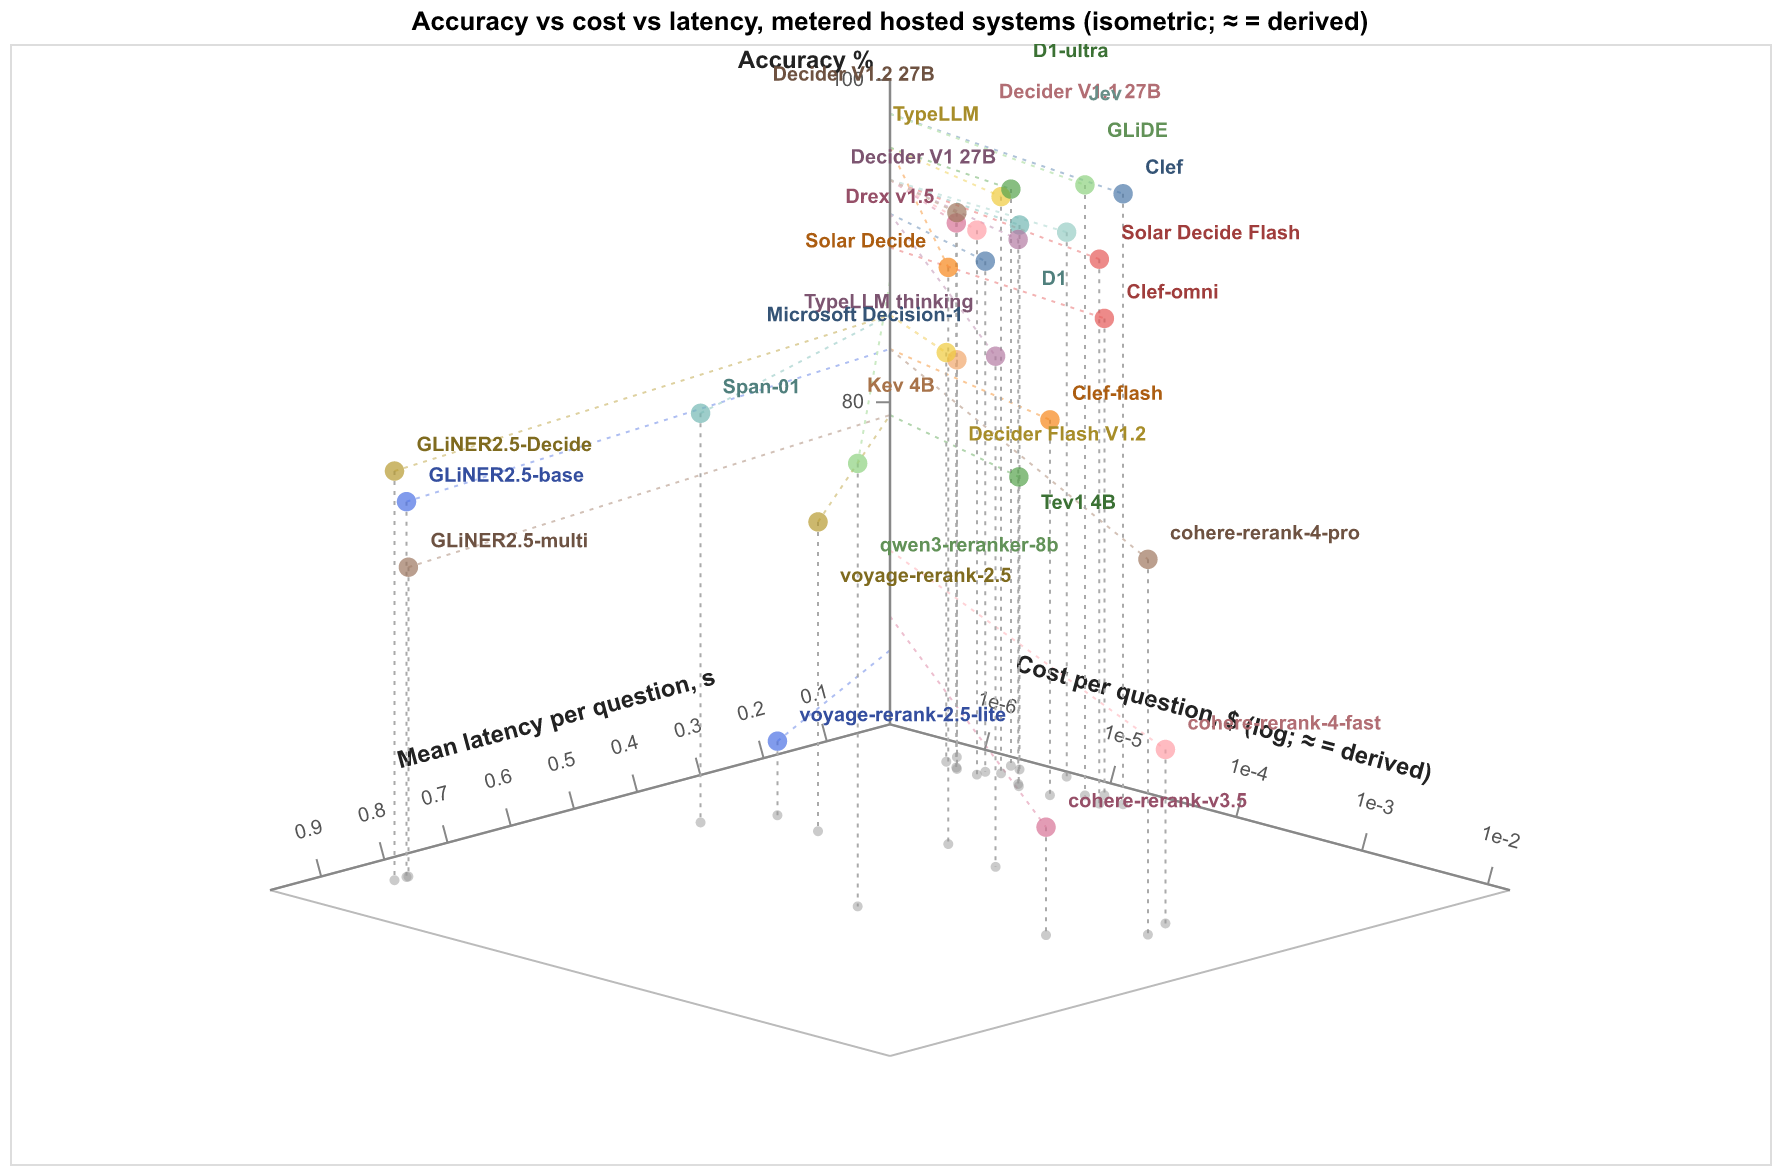
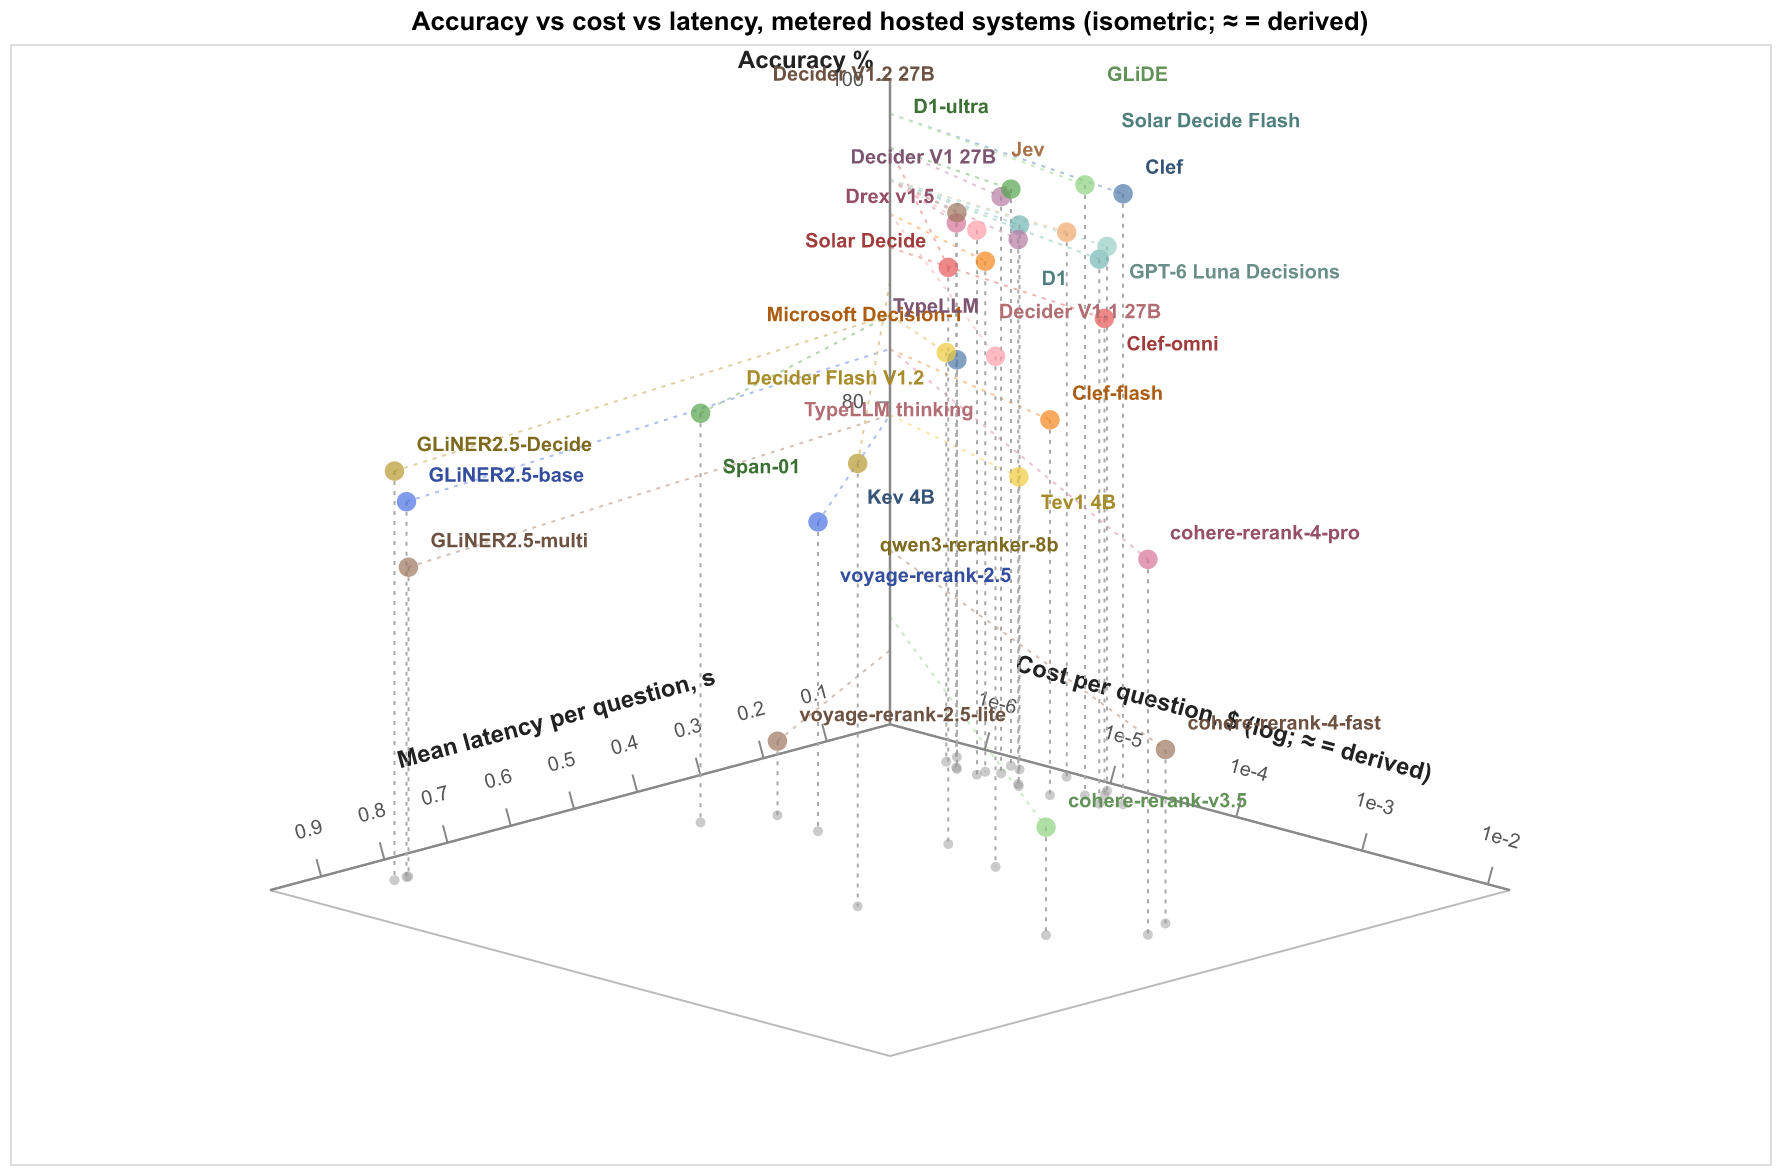
docs(readme,trials): record the luna-decisions unlock - 93.8 percent mixed pool, 54/54 multilingual
Benched 2026-10-24 after the account OpenAI-group ZDR toggle was lifted by user direction; the formerly-blocked table entry is retired and the arrival bullet rewritten. Charts regenerated.

diff --git a/README.md b/README.md
@@ -1,7 +1,7 @@
 # zero-shot-ie-bench
 
-Eighty zero-shot systems (seventy-seven of them benchmarked) across
-thirty-seven information-extraction and classification families —
+Eighty-one zero-shot systems (seventy-eight of them benchmarked) across
+thirty-eight information-extraction and classification families —
 extractor encoders, a purpose-built classifier, cross-encoder rerankers,
 and typed-decision engines (local and cloud, the hosted ones behind
 OpenRouter's decision and rerank endpoints plus Fastino's API, plus ten
@@ -57,6 +57,7 @@ Just here for the results? **[Skip to the benchmark charts](#benchmark-charts)**
 | [Drex v1.5](https://openrouter.ai/nace-ai/drex-v1.5) (`nace-ai/drex-v1.5`) | cloud decision model (Nace.AI's MiMo-V2.6-Distill-Qwen-9B on the System One contract; the card claims Decision Index 0.2.1 rank 1; open weights plus an Apache-2.0 runtime adapted from Kev — the local fp32 twin needs ~36 GB and GGUF serving waits on Nace's llama.cpp/Ollaya fork, so it is benched hosted) | 9B | Nace.AI Open RAIL-M weights · Apache 2.0 runtime | metered · $1.4e-6/q |
 | [d1](https://openrouter.ai/liquid/d1) / [d1-ultra](https://openrouter.ai/liquid/d1-ultra) (`liquid/d1*`) | cloud decision model (Liquid AI's structured decisions on the System One contract: choice/score/noul with calibrated probabilities; d1-ultra is the larger 2026-10-15 step-up, 32k context) | undisclosed | proprietary API | metered · $2.7e-6 (d1) / $2.2e-6 (ultra) /q † |
 | [Elephant-1 9B](https://openrouter.ai/baseten/elephant-1) (`baseten/elephant-1:free`) | cloud decision model (Base Labs' Qwen3.5-9B decision model served by Baseten on the System One contract — choice/noul/score with calibrated probabilities; the plain slug carries no endpoint, all traffic rides the free variant; MIT weights on HF `baselabs/elephant-1`) | 9B | free API tier · MIT weights on HF | $0 · free tier † |
+| [GPT-6 Luna Decisions](https://openrouter.ai/openai/gpt-6-luna-decisions) (`openai/gpt-6-luna-decisions`) | cloud decision model (GPT-6 Luna behind OpenAI's Decisions API on the System One contract — typed choice/noul/score with probabilities, input-only billing, 1.05M context; the endpoint retains prompts, and it was benched 2026-10-24 only after the account's OpenAI-group ZDR toggle was lifted by user direction) | undisclosed | proprietary API | metered · $1.3e-5/q † |
 | [Tev1 4B](https://openrouter.ai/togethercomputer/tev1-4b-experimental) (`togethercomputer/tev1-4b-experimental`) | cloud decision model (experimental Qwen3.5-4B SFT choosing one of 2–24 labeled options; keeps Qwen's next-token head, and OpenRouter serves it on the systemone schema anyway; the data recipe and training code are published) | 4B | proprietary API · open recipe | metered · $4.8e-6/q |
 | [Mercury Decide](https://openrouter.ai/inception/mercury-decide:free) (`inception/mercury-decide:free`) | cloud decision model (Inception's diffusion LM making typed decisions with calibrated probabilities, up to 14 decisions/s; same /v1/systemone schema as Jev) | undisclosed | proprietary API | free tier † |
 | [Qwen3-Reranker 8B](https://openrouter.ai/qwen/qwen3-reranker-8b) · [Voyage rerank-2.5](https://openrouter.ai/voyageai/rerank-2.5) (+lite) · [Cohere Rerank](https://openrouter.ai/cohere/rerank-4-pro) (4 Pro / 4 Fast / v3.5), all via OpenRouter | cloud rerankers (same (instruction, label) argmax mapping as the local ones) | 8B / closed / closed | proprietary API | metered · $1.4e-6–$2.5e-3/q |
@@ -199,6 +200,7 @@ exact span-set match (18 questions). † = hosted via OpenRouter (non-ZDR):
 | TypeLLM (hosted) † | 95.8% | 0.057 | n/a | |
 | Solar Decide (OpenRouter) † | 95.8% | 0.308 | n/a | |
 | Jev (cloud, jev-1.14.0) | 93.8% | 0.015 | n/a | |
+| GPT-6 Luna Decisions (OpenRouter) † | 93.8% | 0.025 | n/a | |
 | D1 (OpenRouter) † | 93.8% | 0.031 | n/a | |
 | Decider V1.2 27B (OpenRouter) | 93.8% | 0.044 | n/a | |
 | Solar Decide Flash (OpenRouter) † | 93.8% | 0.069 | n/a | |
@@ -276,19 +278,22 @@ exact span-set match (18 questions). † = hosted via OpenRouter (non-ZDR):
 
 Takeaways:
 
-- **Elephant-1 lands on the free tier; luna-decisions stays gated by
-  the account's ZDR.** Baseten/Base Labs' 9B (Qwen3.5-9B, System One
+- **Elephant-1 lands on the free tier; luna-decisions unlocked and
+  joins the 93.8% tier.** Baseten/Base Labs' 9B (Qwen3.5-9B, System One
   contract) arrives at 89.6% (43/48, 0.018 s/q — Mercury Decide's tier
   at a third of its latency) with a perfect 54/54 multilingual run,
   both measured at $0: the plain `baseten/elephant-1` slug answers no
   endpoints, all traffic rides `:free` (whose 20-req/min limit paced
   the multilingual run to 2.97 s/text). The free endpoint documents no
   retention policy, so the row carries the †. OpenAI's
-  `gpt-6-luna-decisions` (1.05M ctx, $0.10/M) remains
-  listed-but-unbenched: the 2026-10-24 live probe still returns "ZDR
-  violation (account settings)" — flipping the OpenRouter privacy
-  setting would unlock it. SubQ Snap 1.1 (NanoGPT), Celeris-1 (own
-  API) and Cloudflare's Clairic (Workers AI) are not on OpenRouter.
+  `gpt-6-luna-decisions` (1.05M ctx, $0.10/M input-only) joined the
+  same day once the account's OpenAI-group ZDR toggle was lifted by
+  user direction: 93.8% (45/48, 0.025 s/q — the Jev/Decider tier) and
+  54/54 multilingual at 0.547 s/text, $0.0014 measured for both runs;
+  its easy calls return degenerate probabilities (1.0/0.0, confidence
+  1.0) — calibration-table fodder — and the retaining endpoint puts
+  the † on the row. SubQ Snap 1.1 (NanoGPT), Celeris-1 (own API) and
+  Cloudflare's Clairic (Workers AI) are not on OpenRouter.
 - **The OpenRouter Oct-16 arrivals: d1-ultra joins the hosted pool
   lead, and the 12-question gate takes its second same-day overturn** —
   the gate had scored these 9–10/12 (both misses mixed-sentiment), but
@@ -337,9 +342,10 @@ Takeaways:
   79.2% locals. Decider V1.1 is the value pick: same 5,273 input
   tokens as V1 at half the list price ($0.02 vs $0.04/M — $2.2e-6/q,
   the cheapest of the paid Decisions arrivals).
-  All five join the 100% multilingual club on arrival (below);
-  gpt-6-luna-decisions sits this one out (OpenAI's endpoint retains
-  prompts, blocked by the account's ZDR enforcement — noted below).
+  All five join the 100% multilingual club on arrival (below), as do
+  Elephant-1 and gpt-6-luna-decisions (benched 2026-10-24 after the
+  account's OpenAI-group ZDR toggle was lifted by user direction —
+  OpenAI's endpoint retains prompts, so its rows carry the †).
 - **TypeLLM's October retune flips the thinking story: plain now beats
   thinking, 95.8% vs 91.7%** — the type-safe generation harness
   (constrained enum answers over a hosted Qwen3.8-27B) was re-benched
@@ -536,6 +542,7 @@ TypeLLM adds $0.50 per M thinking tokens) × measured tokens:
 | Jev (cloud) ‡ | $0.00026 | $0.00027 | $0.0000053 |
 | Clef-flash (Workers AI) | $0.00041 | $0.00078 | $0.0000086 |
 | GLiDE (Fastino) | $0.00057 | $0.00071 | $0.0000120 |
+| GPT-6 Luna Decisions (OpenRouter) † | $0.000602 | $0.000759 | $0.0000125 |
 | Clef-omni (Workers AI) | $0.00068 | $0.0013 | $0.000014 |
 | Solar Decide (OpenRouter) † | $0.00087 | $0.0010 | $0.0000181 |
 | Solar Decide Flash (OpenRouter) † | $0.00087 | $0.0010 | $0.0000181 |
@@ -640,6 +647,7 @@ systems answer the same 54 texts.
 | Decider V1.2 27B (OpenRouter) | 100% | 100% | 100% | **100%** |
 | D1-ultra (OpenRouter) † | 100% | 100% | 100% | **100%** |
 | Elephant-1 9B (OpenRouter) † | 100% | 100% | 100% | **100%** |
+| GPT-6 Luna Decisions (OpenRouter) † | 100% | 100% | 100% | **100%** |
 | winnow e4b (Ollaya) | 100% | 100% | 94% | 98% |
 | Span-01 † | 100% | 100% | 94% | 98% |
 | Kev 4B (OpenRouter) † | 100% | 100% | 94% | 98% |
@@ -1317,11 +1325,9 @@ Blocked by hardware or runtime:
 | `fastino/gliner2-{base,large,multi}-v1` | older span-architecture GLiNER 2 line, different loader |
 | `gliner-community/gliner_*-v2.5` | classic `gliner` line (LUKE-descended); a one-off CPU trial of `gliner_large-v2.5` scored 56.2% classification / 67% NER at ~0.4 s/question — dominated by GLiNER2.5-base, so not added |
 
-Blocked by the account's data policy:
-
-| System | Why not run here |
-|---|---|
-| `openai/gpt-6-luna-decisions` | GPT-6 Luna behind OpenAI's Decisions API entry on OpenRouter ($0.10/M input, decisions free, 1.05M context) — its only endpoint reports `retainsPrompts: true`, and this account enforces ZDR, so OpenRouter refuses to route to it; running it would mean weakening the account's privacy settings |
+Formerly blocked by the account's data policy: `openai/gpt-6-luna-decisions`
+(retains prompts) — benched 2026-10-24 after the account's OpenAI-group
+ZDR enforcement was lifted by user direction; its rows carry the †.
 
 The 2026-10-18 OpenRouter arrivals graduated the same day: the
 12-question gate said 9–10/12, the user-directed full pools said

diff --git a/TRIALS.md b/TRIALS.md
@@ -84,6 +84,22 @@ documents no retention policy, so the row carries the † (Mercury's
 — and SubQ Snap 1.1 (NanoGPT only), Celeris-1 (own API) and Clairic
 (Workers AI) are not on OpenRouter at all.
 
+**Same-day unlock — luna-decisions joins after the ZDR flip.** The
+user lifted the account's OpenAI-group ZDR enforcement on
+openrouter.ai/settings/privacy (several toggles live there — global,
+per model group, per guardrail; the per-group OpenAI one was the
+blocker, and the live probe flipped from "ZDR violation (account
+settings)" to a clean answer). Full pools, gate skipped per the
+standing order: mixed pool **93.8%** (45/48, 0.025 s/q — the
+Jev/Decider tier), multilingual **54/54** (100% every language and
+tier, 0.547 s/text). Measured $0.000602/$0.000759 (6.0k/7.6k input
+tokens, output free — the Decisions API bills input only). The
+endpoint retains prompts, so the row carries the †; the account
+accepted that trade by user direction. Calibration-table observation:
+easy calls return degenerate probabilities (1.0/0.0, confidence 1.0) —
+consistent with Artificial Analysis' "every decision model is
+overconfident".
+
 ## Culled from the benchmark
 
 LFM2.5-RLCD and the nanodiff pair failed the 12/12 trial; the other
